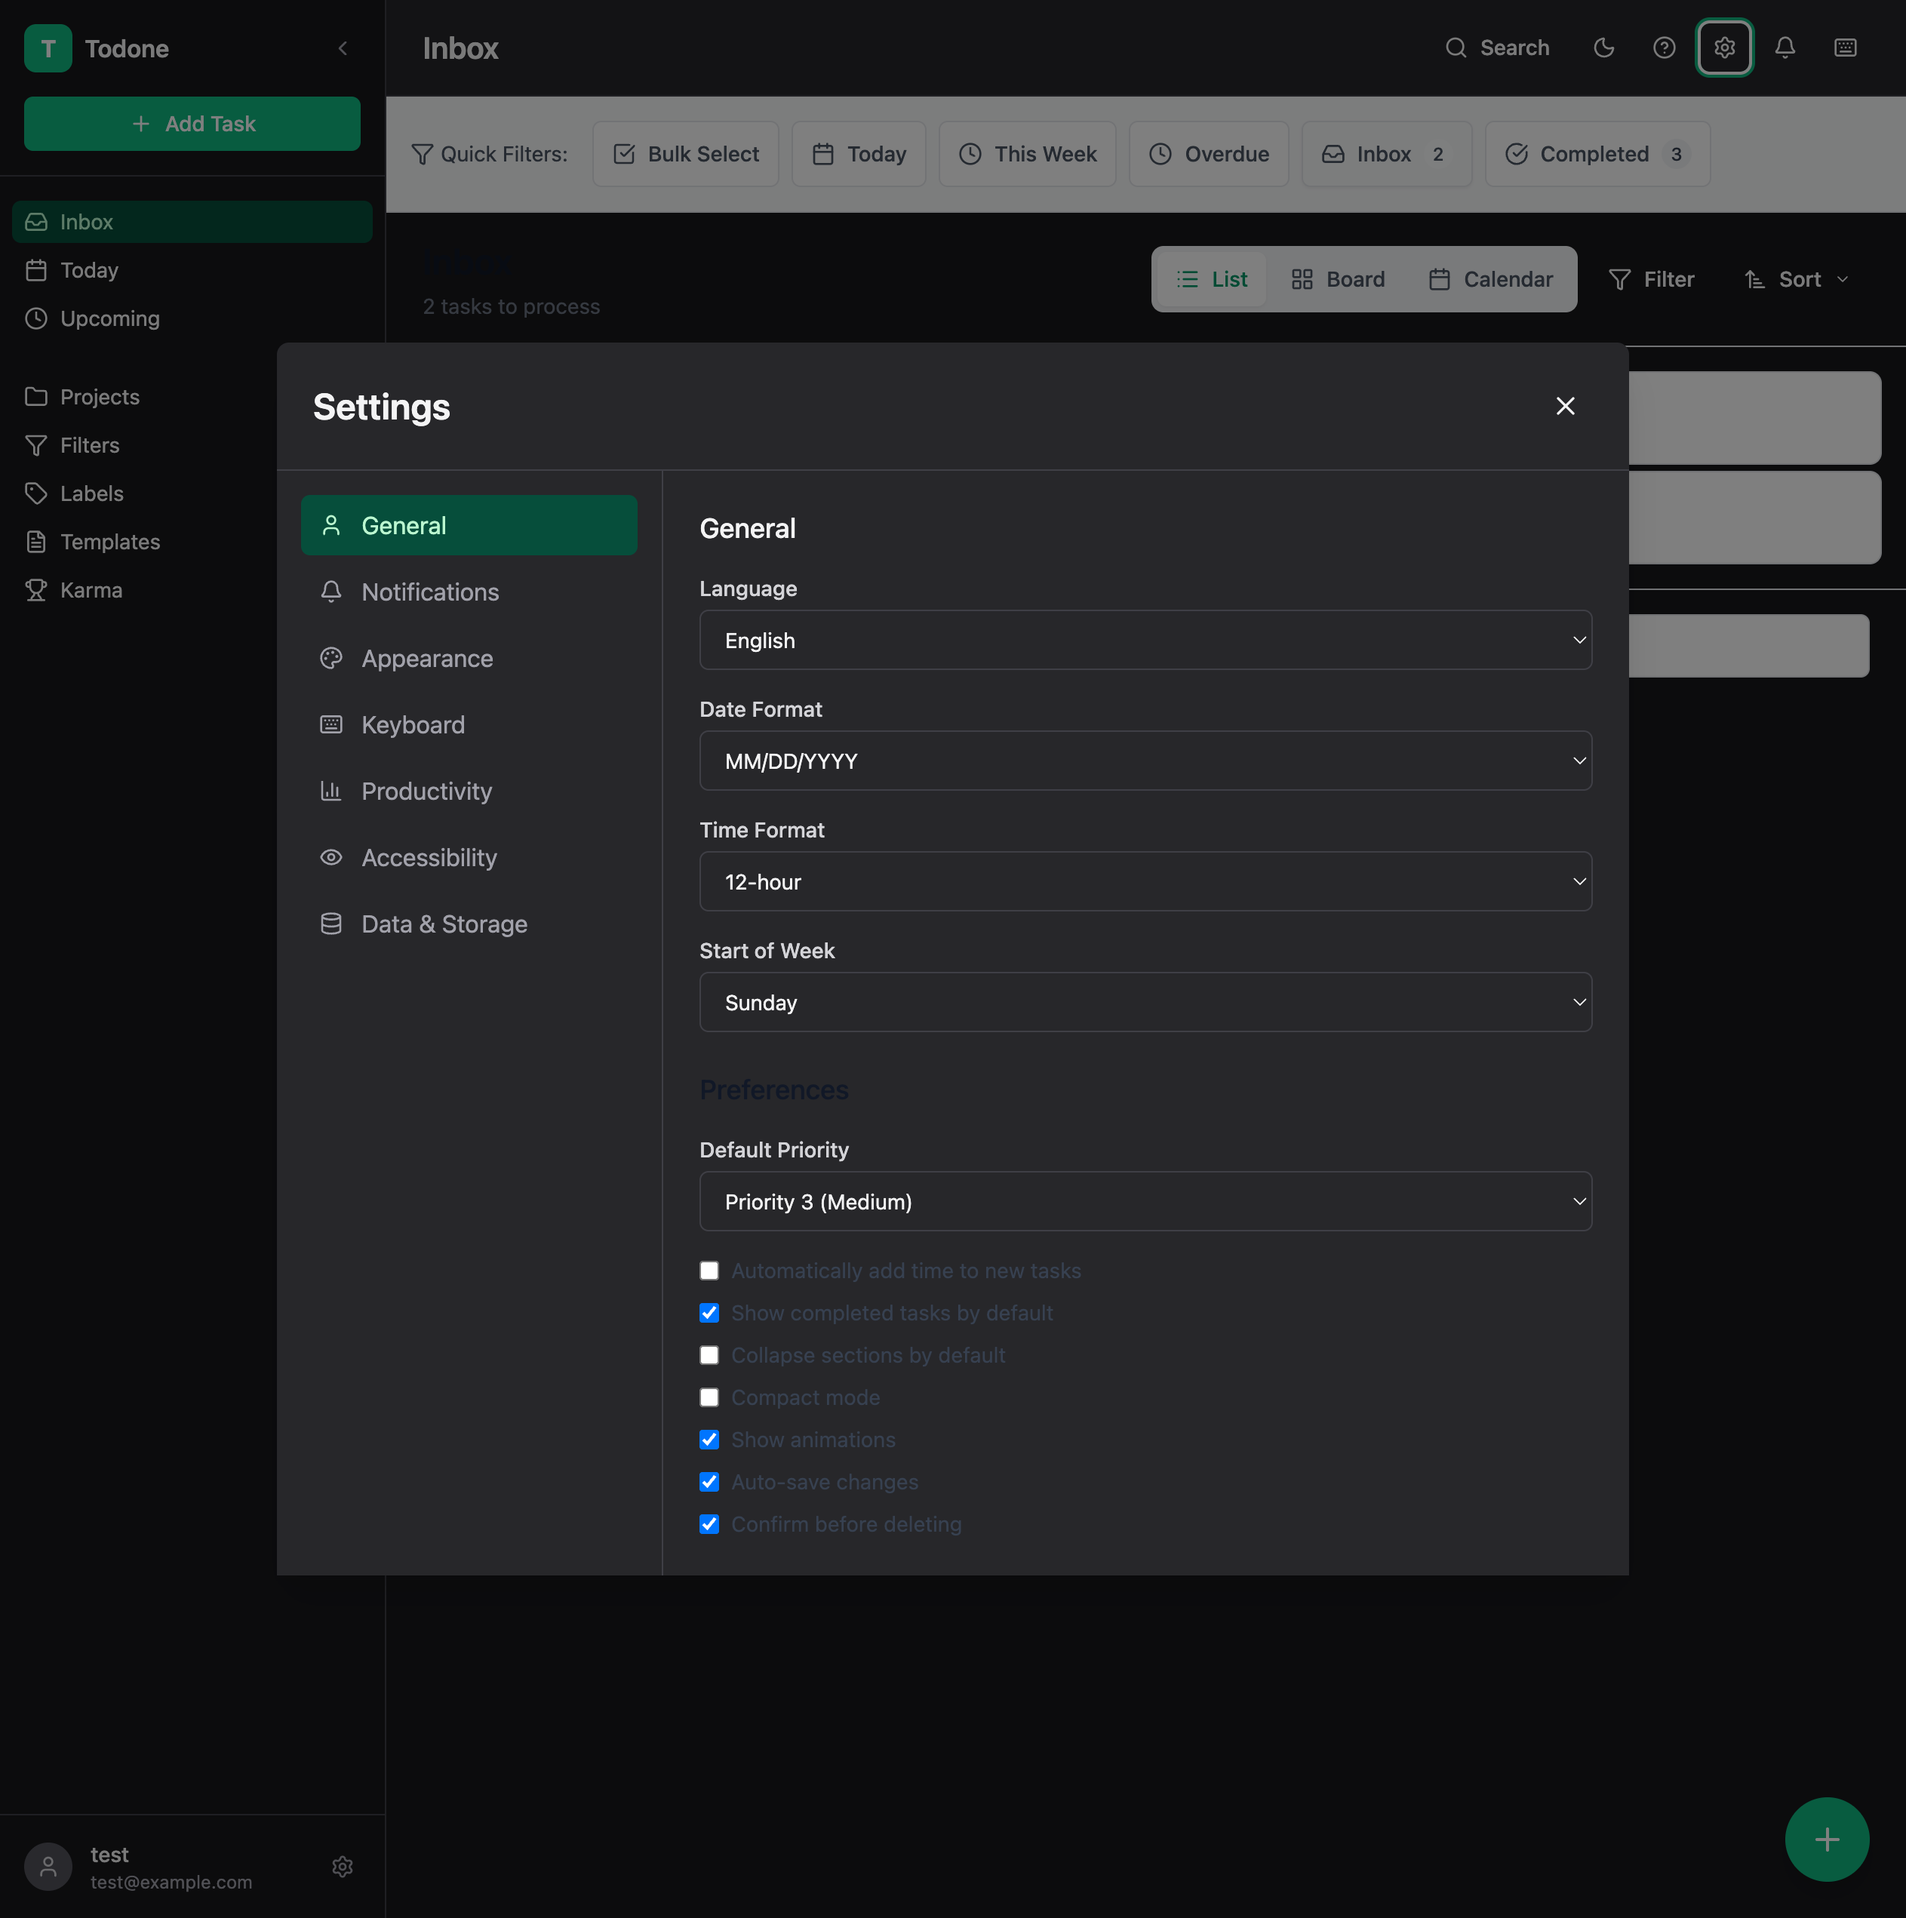
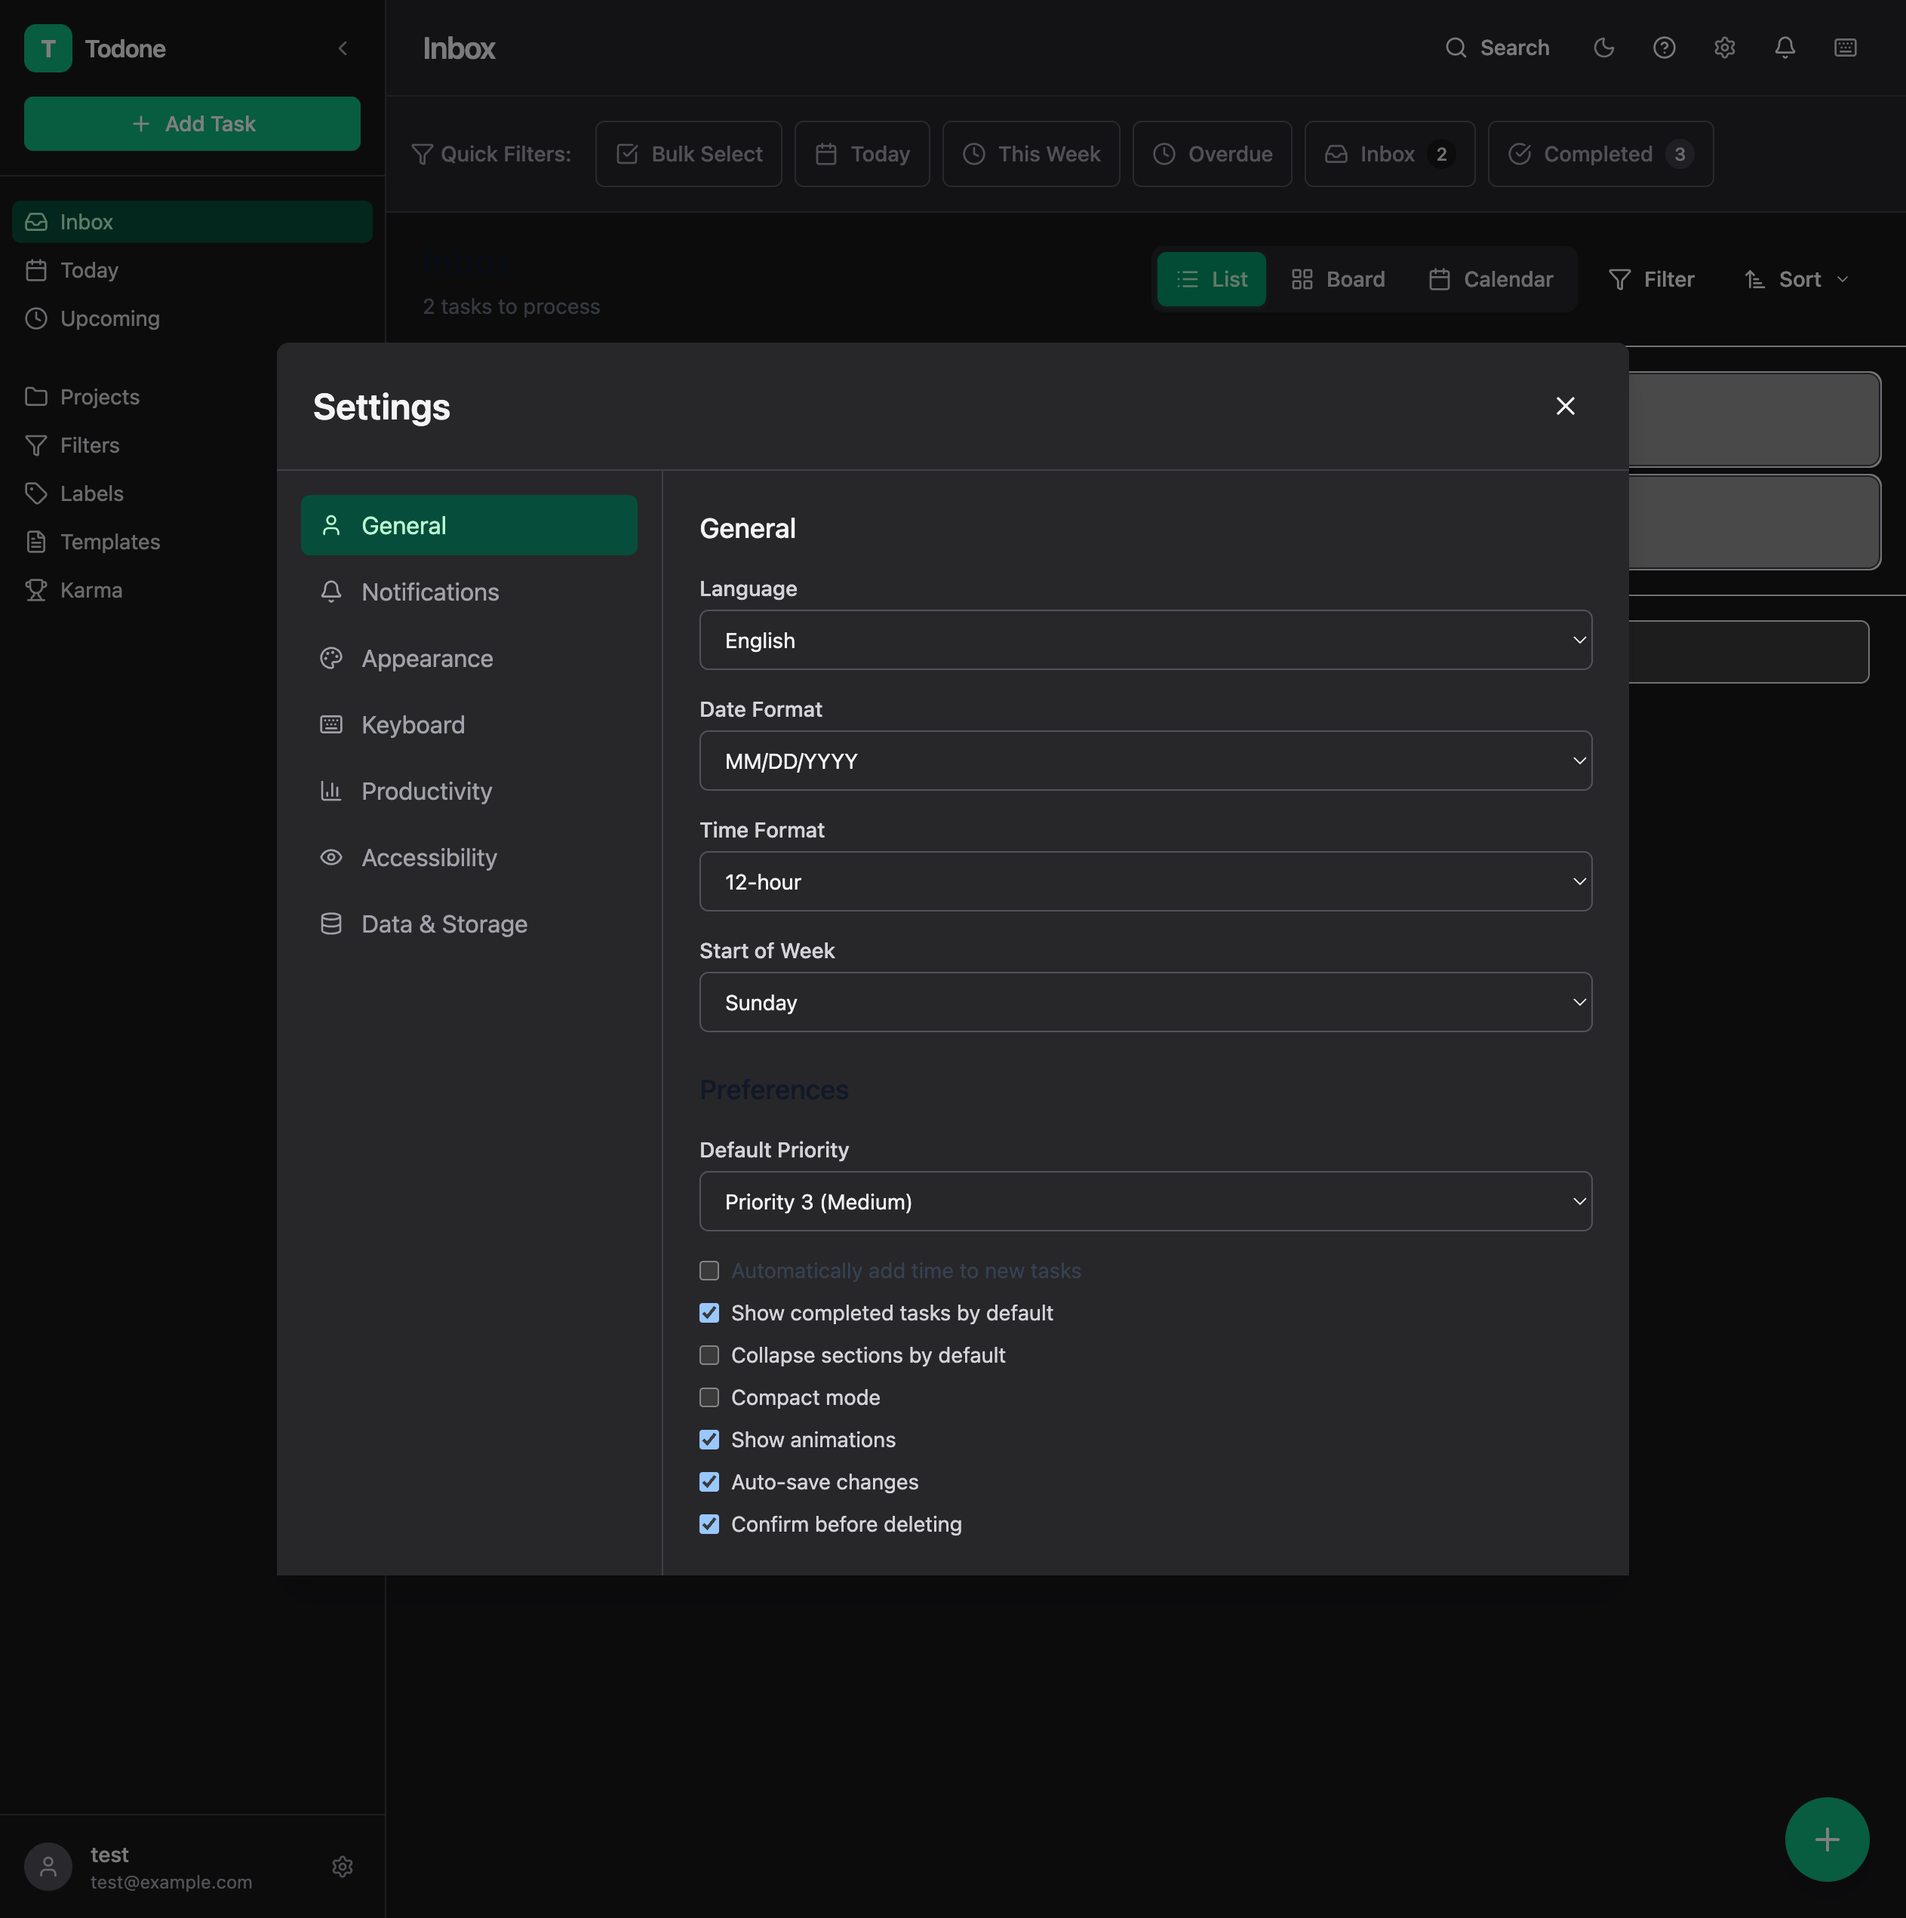
feat: Improve dark mode theming and styling
- Updated colors in QuickFilters, Sidebar, and MainLayout for better
dark mode support. - Enhanced TaskItem styling with improved borders and
background colors for dark mode. - Modified button and input styles for
better consistency. - Updated index.css with new dark mode styles. -
Updated settings-dark.png.

diff --git a/src/components/QuickFilters.tsx b/src/components/QuickFilters.tsx
@@ -44,7 +44,7 @@ export const QuickFilters: React.FC<QuickFiltersProps> = ({
       label: 'Today',
       icon: Calendar,
       count: todayCount,
-      color: 'text-blue-600 bg-blue-50 border-blue-200',
+      color: 'text-blue-600 bg-blue-50 border-blue-200 dark:text-blue-400 dark:bg-blue-900/30 dark:border-blue-700',
       active: currentView === 'today',
       onClick: () => setCurrentView('today')
     },
@@ -53,7 +53,7 @@ export const QuickFilters: React.FC<QuickFiltersProps> = ({
       label: 'This Week',
       icon: Clock,
       count: upcomingCount,
-      color: 'text-purple-600 bg-purple-50 border-purple-200',
+      color: 'text-purple-600 bg-purple-50 border-purple-200 dark:text-purple-400 dark:bg-purple-900/30 dark:border-purple-700',
       active: currentView === 'upcoming',
       onClick: () => setCurrentView('upcoming')
     },
@@ -62,7 +62,7 @@ export const QuickFilters: React.FC<QuickFiltersProps> = ({
       label: 'Overdue',
       icon: Clock,
       count: overdueCount,
-      color: 'text-red-600 bg-red-50 border-red-200',
+      color: 'text-red-600 bg-red-50 border-red-200 dark:text-red-400 dark:bg-red-900/30 dark:border-red-700',
       active: false, // This is a filter, not a view
       onClick: () => {
         // This would trigger an overdue filter in current view
@@ -75,7 +75,7 @@ export const QuickFilters: React.FC<QuickFiltersProps> = ({
       label: 'Inbox',
       icon: Inbox,
       count: inboxCount,
-      color: 'text-gray-600 bg-gray-50 border-gray-200',
+      color: 'text-gray-600 bg-gray-50 border-gray-200 dark:text-zinc-400 dark:bg-zinc-800 dark:border-zinc-600',
       active: currentView === 'inbox',
       onClick: () => setCurrentView('inbox')
     },
@@ -84,7 +84,7 @@ export const QuickFilters: React.FC<QuickFiltersProps> = ({
       label: 'Completed',
       icon: CheckCircle,
       count: completedCount,
-      color: 'text-green-600 bg-green-50 border-green-200',
+      color: 'text-green-600 bg-green-50 border-green-200 dark:text-green-400 dark:bg-green-900/30 dark:border-green-700',
       active: currentView === 'completed',
       onClick: () => setCurrentView('completed')
     }

diff --git a/src/index.css b/src/index.css
@@ -50,7 +50,7 @@
   }
   
   .btn-ghost {
-    @apply hover:bg-gray-100 hover:text-gray-900 dark:hover:bg-zinc-800 dark:hover:text-zinc-100 dark:border-zinc-700;
+    @apply hover:bg-gray-100 hover:text-gray-900 dark:hover:bg-zinc-800 dark:hover:text-zinc-100;
   }
   
   .input {
@@ -62,7 +62,7 @@
   }
   
   .task-item {
-    @apply flex items-center gap-3 p-3 rounded-md hover:bg-gray-50 transition-colors dark:hover:bg-zinc-800 dark:border-zinc-700 dark:bg-zinc-800;
+    @apply flex items-center gap-3 p-3 rounded-md hover:bg-gray-50 transition-colors dark:hover:bg-zinc-800/50 dark:border-zinc-700 dark:bg-zinc-800/50;
   }
   
   .sidebar-item {

diff --git a/src/components/Sidebar.tsx b/src/components/Sidebar.tsx
@@ -84,7 +84,7 @@ export const Sidebar: React.FC<SidebarProps> = ({ onSettingsClick }) => {
                   className={`w-full flex items-center justify-center p-2 rounded-md transition-colors ${
                     currentView === item.id
                       ? 'bg-primary-100 text-primary-700 dark:bg-primary-900 dark:text-primary-200'
-                      : 'text-gray-600 hover:bg-gray-100 dark:text-gray-400 dark:hover:bg-gray-800'
+                      : 'text-gray-600 hover:bg-gray-100 dark:text-zinc-400 dark:hover:bg-zinc-800'
                   }`}
                   title={item.label}
                 >

diff --git a/src/components/tasks/TaskItem.tsx b/src/components/tasks/TaskItem.tsx
@@ -98,7 +98,7 @@ export const TaskItem: React.FC<TaskItemProps> = memo(({
           task.isCompleted ? 'opacity-60' : ''
         }`}
       >
-        <div className="flex items-start gap-3 p-4 rounded-lg border border-transparent dark:border-zinc-800 hover:bg-gray-50 dark:hover:bg-zinc-800/50 transition-all duration-200">
+        <div className="flex items-start gap-3 p-4 rounded-lg border border-gray-200 dark:border-zinc-700 bg-white dark:bg-zinc-800/50 hover:bg-gray-50 dark:hover:bg-zinc-800 transition-all duration-200">
           {/* Drag Handle */}
           <div 
             {...attributes}

diff --git a/src/components/layout/MainLayout.tsx b/src/components/layout/MainLayout.tsx
@@ -220,7 +220,7 @@ export const MainLayout: React.FC = () => {
   };
 
   return (
-    <div className="h-screen flex bg-white dark:bg-zinc-900 relative">
+    <div className="h-screen flex bg-gray-50 dark:bg-zinc-900 relative">
       {/* Screen reader announcements */}
       <div 
         role="status" 
